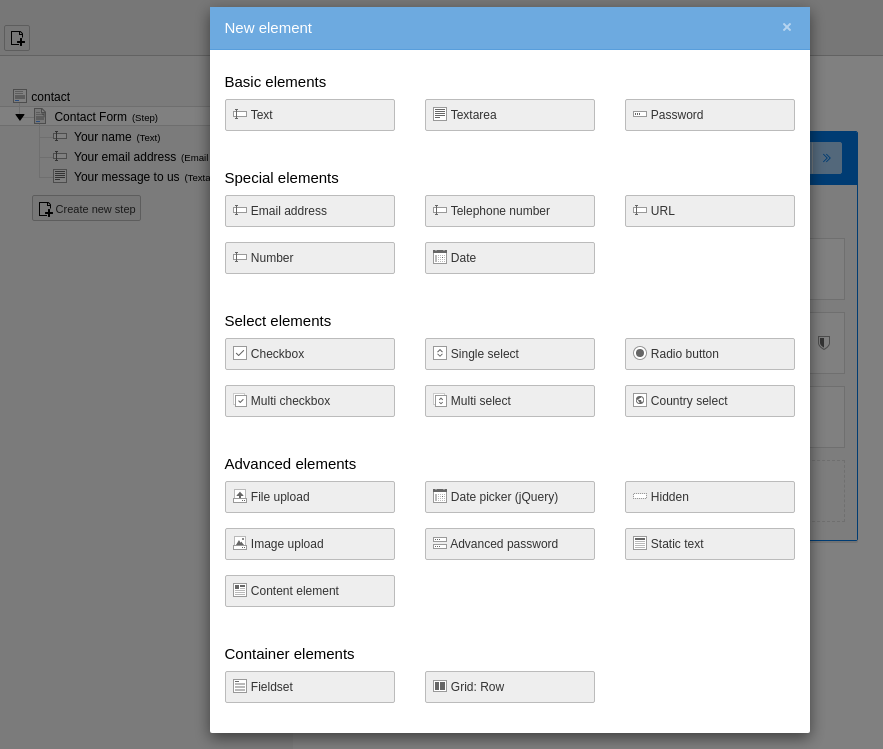
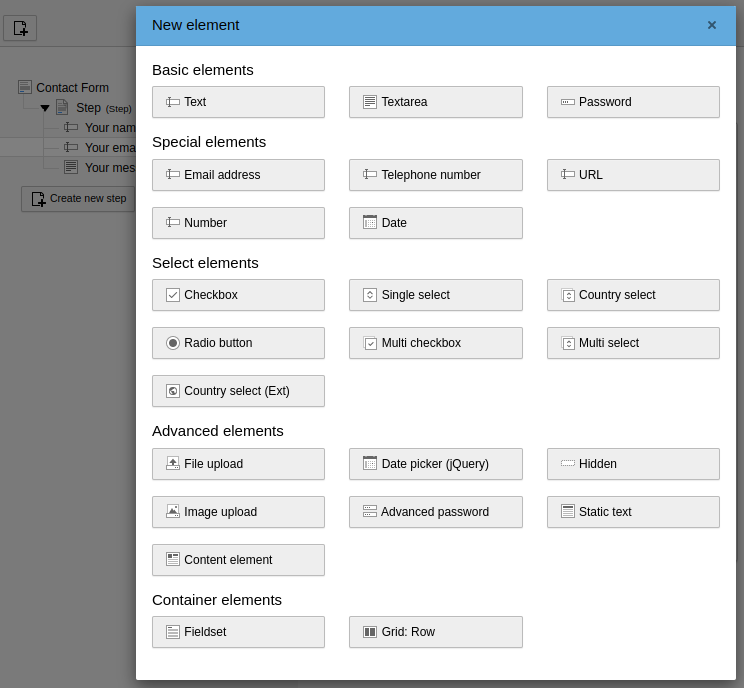
[DOCS] Adjust editor chapter

diff --git a/Documentation/Editor/Index.rst b/Documentation/Editor/Index.rst
@@ -24,7 +24,12 @@ window with the :guilabel:`New element` wizard opens:
    :alt: New element wizard
 
 Under the group :guilabel:`Select elements` you'll find the form element
-:guilabel:`Country select`. Click on the element to add it to the form.
+:guilabel:`Country select (Ext)`. Click on the element to add it to the form.
+
+.. note::
+   In TYPO3 v12 a new form element "Country select" was introduced. The form
+   element provided by TYPO3 is "Country select", whereas the element provided
+   by this extension is "Country select (Ext)".
 
 
 Configuration of the element
